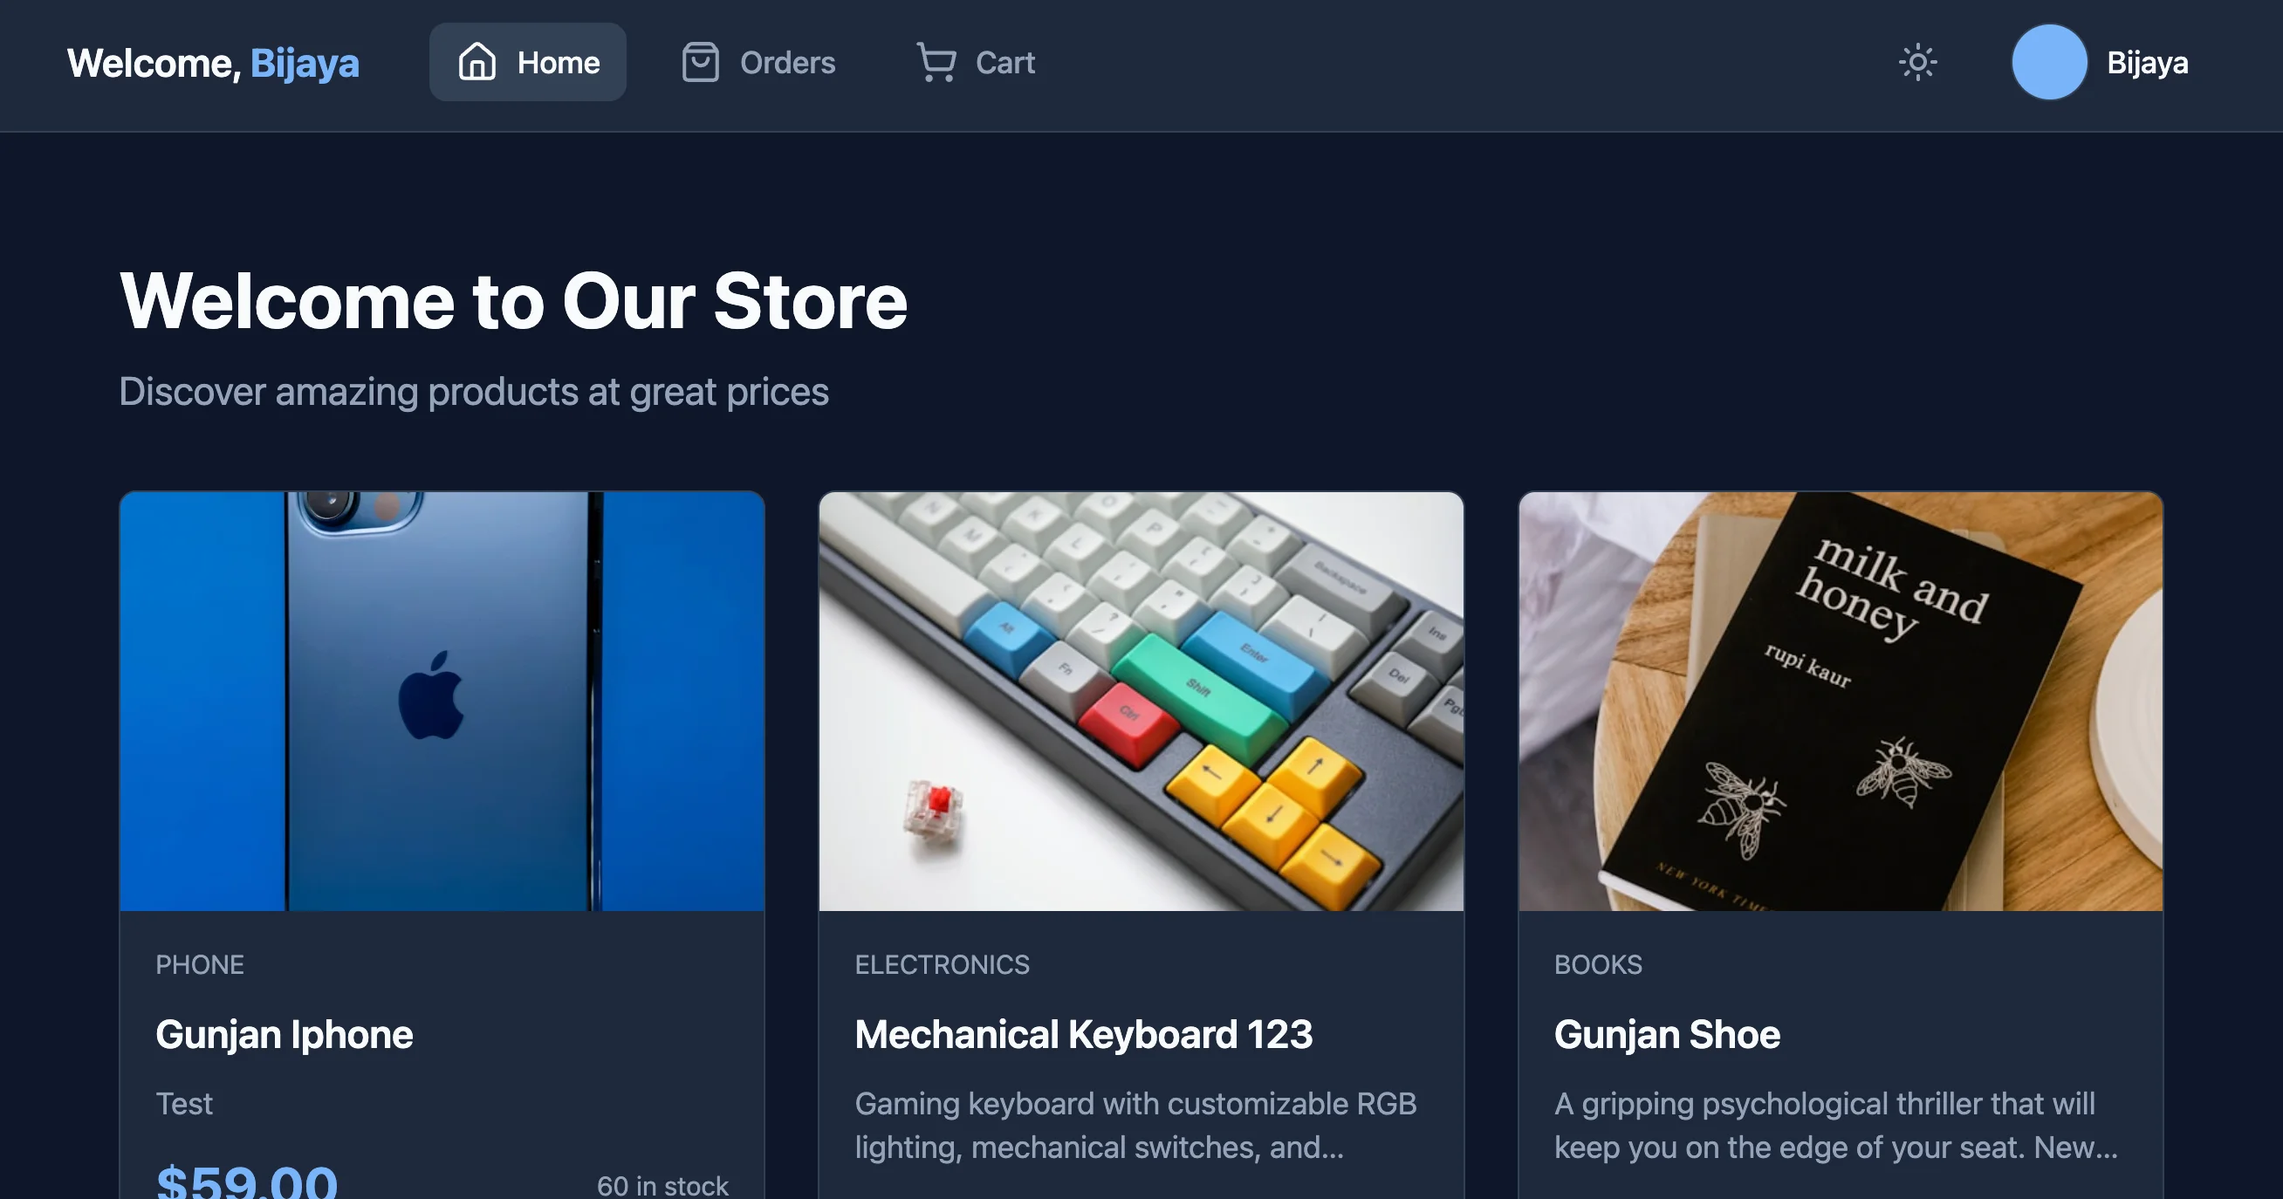
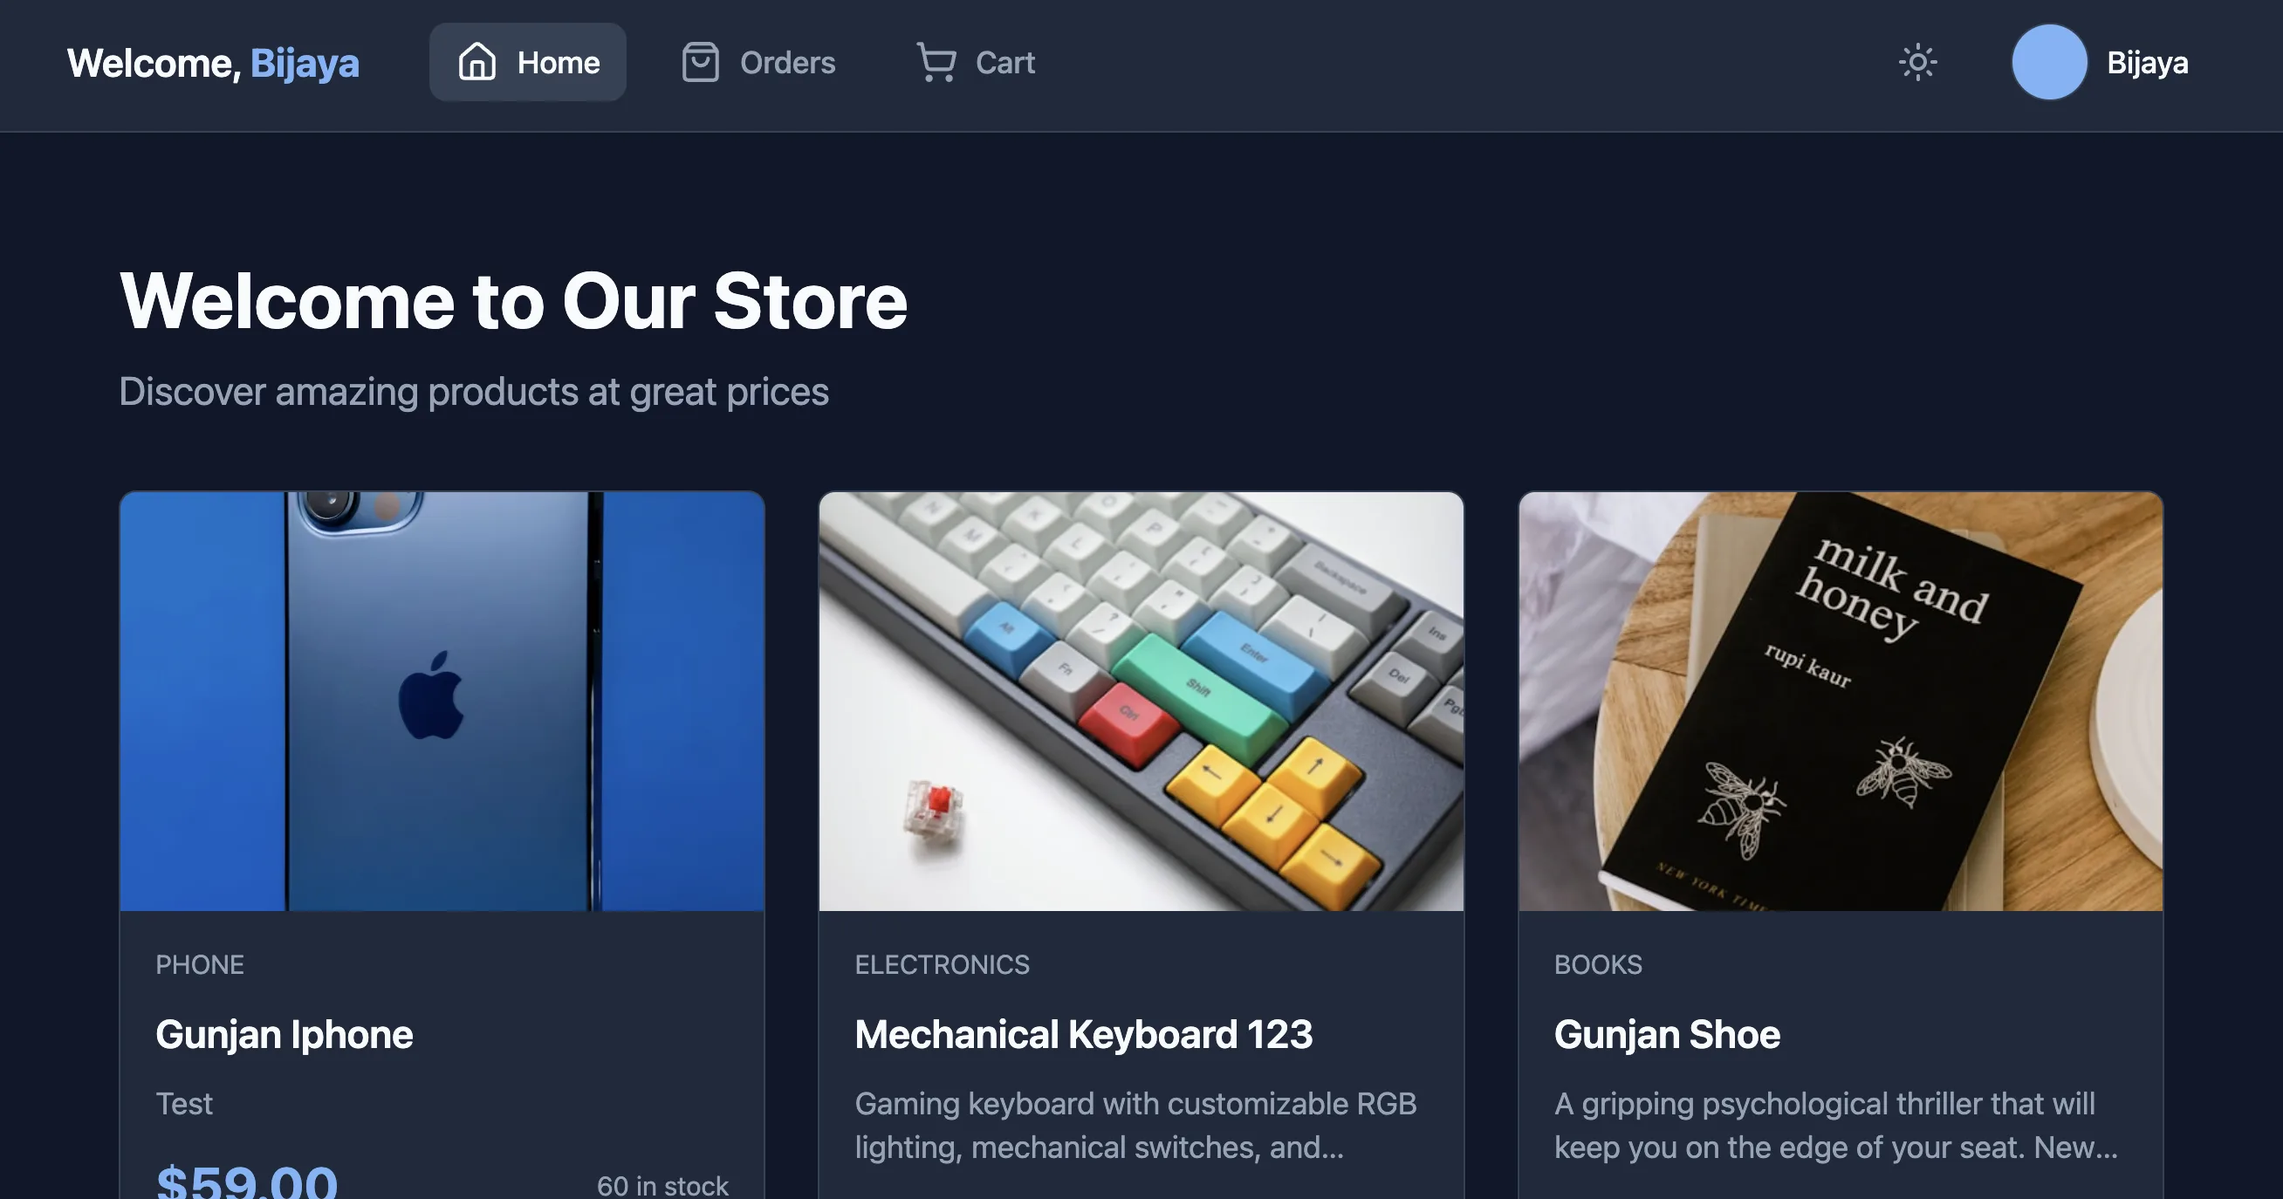
Add AnyToMD and FloatingNotes projects, convert images to webp

Changed region(s): [[0.031, 0.3974, 0.3406, 0.7642], [0.4644, 0.5197, 0.6193, 0.7642]]

diff --git a/projects.js b/projects.js
@@ -6,13 +6,13 @@ const projectsData = [
     "fullDescription": "Ember on Toorak is a full-stack luxury restaurant platform built for an upscale fire-driven steakhouse in Melbourne. The site delivers a cinematic brand experience with scroll-driven animations, a dynamic menu system, real-time reservations, and an AI-powered chat concierge — all backed by a role-protected admin dashboard.\n\nEvery design decision balances visual storytelling with operational utility: guests get an immersive, smooth-scrolling experience while staff manage menus, bookings, and job listings from a single authenticated interface.\n\nThe architecture follows a modern serverless pattern — Next.js 15 App Router handles SSR and API routes, Prisma ORM connects to Neon Postgres over HTTP, and Clerk secures admin access with JWT-based role enforcement. I implemented transactional email flows via SendGrid, built an AI chat widget using the Vercel AI SDK with OpenAI tool calling, and designed a multi-theme CSS system with runtime switching. Security was treated as a first-class concern: CSP headers, HSTS in production, and strict middleware gating on all admin endpoints.",
     "techStack": ["Next.js 15", "React 19", "TypeScript", "Tailwind CSS v4", "Neon Postgres", "Prisma ORM", "Clerk", "Framer Motion", "Lenis", "Vercel AI SDK", "OpenAI API", "SendGrid", "React Email", "Zod", "Zustand"],
     "images": [
-      "./images/emberontoorak/home_main_theme.jpeg",
-      "./images/emberontoorak/menu_green.jpeg",
-      "./images/emberontoorak/booking_pink.jpeg",
-      "./images/emberontoorak/chat_brown.jpeg",
-      "./images/emberontoorak/reservation_brown.jpeg",
-      "./images/emberontoorak/reservation_light.jpeg",
-      "./images/emberontoorak/light.jpeg"
+      "./images/emberontoorak/home_main_theme.webp",
+      "./images/emberontoorak/menu_green.webp",
+      "./images/emberontoorak/booking_pink.webp",
+      "./images/emberontoorak/chat_brown.webp",
+      "./images/emberontoorak/reservation_brown.webp",
+      "./images/emberontoorak/reservation_light.webp",
+      "./images/emberontoorak/light.webp"
     ],
     "projectUrl": "https://emberontoorak.vercel.app/",
     "githubUrl": null
@@ -24,15 +24,45 @@ const projectsData = [
     "fullDescription": "Hiday brings a neo-brutalist design edge to personal productivity — thick borders, sharp shadows, and bold violet-on-amber theming in both light and dark modes. One-tap tracking, advanced analytics (pie charts, bar charts, trend lines), flexible tagging, and goal streaks across iOS, Android, and web. Built for people who want their tools to work hard and look good doing it.",
     "techStack": ["Next.js 16", "React 19", "Tailwind CSS v4", "Supabase", "Zustand", "React Query", "shadcn/ui", "Radix UI", "Lucide"],
     "images": [
-      "./images/hiday/home.jpg",
-      "./images/hiday/tasks.jpg",
-      "./images/hiday/task.jpg",
-      "./images/hiday/session.jpg",
-      "./images/hiday/timeline.jpg",
-      "./images/hiday/settings.jpg",
-      "./images/hiday/auth.jpg"
+      "./images/hiday/home.webp",
+      "./images/hiday/tasks.webp",
+      "./images/hiday/task.webp",
+      "./images/hiday/session.webp",
+      "./images/hiday/timeline.webp",
+      "./images/hiday/settings.webp",
+      "./images/hiday/auth.webp"
     ],
     "projectUrl": "https://hiday-one.vercel.app/",
+    "githubUrl": null
+  },
+  {
+    "id": "anytomd",
+    "title": "AnyToMD",
+    "shortDescription": "A local-first workspace that turns PDFs, DOCX, and handwriting into clean Markdown — then refines, translates, and renders the result, all on your own machine against your own API keys.",
+    "fullDescription": "AnyToMD is a local-first workspace that turns documents into Markdown — and then does something useful with the result. Everything runs on your own machine against your own API keys; files never leave the box unless you point a step at a hosted model yourself.\n\nConvert. Drop in a PDF or DOCX and get clean Markdown back. PDFs go through a confidence ladder — direct text extraction first, falling back to OCR when a page turns out to be scanned or image-only — while DOCX is converted structurally, tables included. Converted output streams into the page as it is produced, and can be refined afterwards with an AI pass.\n\nRead handwriting. Photograph a handwritten page and have a vision model transcribe it, then correct the transcription against your own reference samples so the model learns the quirks of one particular hand.\n\nWork in Nepali. A dedicated studio for Devanagari source material: extract entities, draft and revise long-form stories through a multi-stage pipeline, keep prompts and evaluations under version control, and render finished pieces into narrated video runs.\n\nGenerate media. Text-to-video and text-to-image lanes are backed by a curated catalogue of hosted models, each with its capabilities and real measured per-generation cost recorded up front, so you can see what a job will cost before you run it. Completed jobs are kept in a browsable history with their prompts, settings, and actual spend.\n\nKeep a library. Everything produced lands in one searchable place, tagged and re-openable, rather than scattered across download folders.\n\nThree pieces run side by side: a Next.js web application, which is the whole user interface and the API surface; a Python conversion service, which handles PDF text extraction and OCR; and a set of shared TypeScript packages for the AI provider plumbing and DOCX handling.\n\nModel choices are not baked in. Each task — transcription, description, revision — is a named role, and any role can be re-pointed at a different local or hosted model from the interface, without a restart. Local models are preferred where they are good enough; hosted ones are there for the jobs that need them.",
+    "techStack": ["Next.js", "TypeScript", "Python", "Ollama", "OpenRouter", "OCR"],
+    "images": [
+      "./images/anytomd/anytomd1.webp",
+      "./images/anytomd/anytomd2.webp",
+      "./images/anytomd/anytomd3.webp",
+      "./images/anytomd/anytomd4.webp"
+    ],
+    "projectUrl": null,
+    "githubUrl": null
+  },
+  {
+    "id": "floating-notes",
+    "title": "FloatingNotes",
+    "shortDescription": "An always-on-top macOS panel holding Markdown notes, todos, a per-note focus timer, and one-click Claude CLI agent runs — stored as ordinary files you own, with no database or account.",
+    "fullDescription": "FloatingNotes is a desktop app (Electron + React) that lives as a compact panel floating above whatever I'm working in — an editor, a browser, a fullscreen video call. It is four tools that happen to share one window, because in practice they're the same activity: plain Markdown notes grouped into color-coded projects; todos, where any note flips into a structured checklist and back losing nothing; per-note focus tracking, so time is attributed to the thing it was spent on; and command presets — saved Claude CLI prompts that run against a project directory.\n\nEverything is stored as ordinary files in ~/Documents/FloatingNotes — one .md per note, one folder per project. No database, no account, no sync service. If the app disappeared tomorrow, the notes are still readable in any text editor.\n\nEvery tool I tried solved a quarter of the problem and forced a context switch for the rest. The window itself was the first problem: notes apps live in the dock, behind whatever I'm actually doing, and the act of switching to them is enough friction that the thought is gone by the time I get there. So the window floats at screen-saver level — above fullscreen apps, visible on all Spaces — and collapses to a 72px draggable icon when I want it out of the way but not gone. Minimize and restore keep the same corner anchored, so the window never wanders across the screen over a day of use.\n\nNotes and tasks are the same object. In every other tool they're separate apps with separate inboxes. Here a note becomes a todo list by toggling a mode: the app inserts a sentinel comment and rewrites the bullets as GFM task lines. Toggle it back and you get prose again. Checked state lives in the Markdown itself, so there's no second source of truth to drift out of sync — and the file is still a normal file the whole time.\n\nTime needs to attach to work, not to a separate timer app. A pomodoro that doesn't know what you were doing produces a number you can't act on. Here the timer starts on a note, banks its minutes against that note, survives an app restart mid-session, and rolls up into daily and 30-day charts. Duration is displayed in pomodoros rather than raw minutes — a unit I can actually plan a day in.\n\nAgents should run where the work is described. I write the prompt in a note, next to the context that produced it. Command presets close that last gap: a saved prompt, a model, and a working directory, launched with one click and streaming results back into the same panel — plus the 5-hour and 7-day usage windows on a bar at the bottom, so I know what's left before starting something long.\n\nOn the notes side: one folder per project and one .md per note in a Finder-visible root you can relocate, with line 1 of the file as the title — no frontmatter, no metadata files to corrupt. Autosave fires half a second after you stop typing and on blur. There's Markdown preview, rename in place, drag-to-reorder, moving a note between projects, and a done state that dims and collapses completed notes under a divider. Connectors link notes to each other across projects, and a filesystem watcher pushes external edits into the app live, so editing a note in another editor just works.\n\nThe focus timer offers 25/45/60/90m presets with a configurable global pomodoro unit, pause and resume with the in-flight session persisted, an overrun bell every 15 minutes past target, and 12 ambience tracks with sequential or random rotation. Per-note totals and individual run records are editable and deletable — a timer left running overnight shouldn't poison the data.\n\nCommand presets run in two modes. Terminal mode opens a real Terminal.app window with readable output and your normal global Claude config, for runs you want to watch. In-app headless mode spawns claude with stream-json output, parses the NDJSON live into the panel, and settles with the final answer plus session id, duration, and cost — cancellable mid-run, resumable afterwards in either mode. One safety detail worth naming: neither mode ever interpolates user text into a shell line. The Terminal path writes the prompt, model, cwd, and description to temp files and generates a script that reads them back, so no metacharacter is ever interpreted; the headless path passes an argv array with shell disabled.\n\nThe architecture is two processes joined by exactly one seam. The main process handles the filesystem, projects, settings, Claude CLI spawning and stream parsing, AppleScript automation, and window management; preload declares the entire contract as a documented contextBridge surface; a single Zustand store holds all app state; pure dependency-free logic lives in its own directory; and Zod schemas validate everything crossing the IPC boundary.\n\nTwo decisions carry most of the design. Files are the source of truth, not app state — notes are Markdown, todo checked-state is the checkbox in the line, and order and completion live in sidecar JSON next to the notes, so nothing needs migrating because there's no schema to migrate. And every IPC response is parsed with Zod before it reaches state, with field-level catches rather than object-level ones — so one malformed value degrades to its default instead of collapsing the whole object. That distinction is load-bearing: an object-level catch on the settings schema would have silently wiped every saved preset and API key on a single bad field.\n\nAn Electron app is two processes, and screenshotting the real window needs a screen-recording permission the build process doesn't have — so verification splits along the same seam as the architecture. Renderer changes run in a dev harness: the real store, real components, and real CSS in a plain browser tab against a stubbed API, driven by Playwright reading the DOM and computed styles, which is how a dark-theme contrast bug got caught that a screenshot never would have. Main-process changes are verified in the actual Electron app, because the harness stub is the thing under test there. Pure logic has plain node tests with no DOM at all.\n\nv0.1.0, macOS-only, MIT-licensed, built for one user. No backend, no database, no telemetry.",
+    "techStack": ["Electron 43", "React 18", "Vite 6", "Zustand 5", "Zod 4", "dnd-kit", "Playwright", "Claude Code CLI", "Firecrawl", "OpenRouter", "AppleScript", "electron-builder"],
+    "images": [
+      "./images/floating_notes/fn1.webp",
+      "./images/floating_notes/fn2.webp",
+      "./images/floating_notes/fn3.webp",
+      "./images/floating_notes/fn4.webp"
+    ],
+    "projectUrl": null,
     "githubUrl": null
   },
   {
@@ -55,9 +85,9 @@ const projectsData = [
     "fullDescription": "A fun little memory card game built with React and TailwindCSS. Players test their memory by matching pairs of fruit-themed cards.\n\nFeatures include score tracking for moves and matches, smooth card flip animations with a win celebration, responsive desktop and mobile design, and auto-shuffle for fresh game layouts on every new round.",
     "techStack": ["React", "Tailwind CSS", "Vite"],
     "images": [
-      "./images/memory_game/game.jpg",
-      "./images/memory_game/game1.jpg",
-      "./images/memory_game/game2.jpg"
+      "./images/memory_game/game.webp",
+      "./images/memory_game/game1.webp",
+      "./images/memory_game/game2.webp"
     ],
     "projectUrl": "https://memory-game-tau-virid.vercel.app/",
     "githubUrl": "https://github.com/bjadhs/memory_game"

diff --git a/style.css b/style.css
@@ -760,6 +760,9 @@ body.dark-theme .skill-category-card:hover {
   transition: transform 0.3s ease, box-shadow 0.3s ease;
   opacity: 0;
   transform: translateY(30px);
+  display: flex;
+  flex-direction: column;
+  height: 100%;
 }
 
 .project-card:hover {
@@ -768,6 +771,7 @@ body.dark-theme .skill-category-card:hover {
 
 .project-image {
   height: 200px;
+  flex-shrink: 0;
   background-color: #ddd;
   overflow: hidden;
   position: relative;
@@ -797,15 +801,26 @@ body.dark-theme .skill-category-card:hover {
 
 .project-content {
   padding: 1.5rem;
+  display: flex;
+  flex-direction: column;
+  flex: 1;
 }
 
 .project-content h3 {
   margin-bottom: 0.5rem;
 }
 
+/* Clamp to 3 lines so every card's description block is the same height;
+   longer text is cut with an ellipsis. */
 .project-content p {
   margin-bottom: 1rem;
   color: #666;
+  display: -webkit-box;
+  -webkit-box-orient: vertical;
+  -webkit-line-clamp: 3;
+  line-clamp: 3;
+  overflow: hidden;
+  min-height: calc(3 * 1.6em);
 }
 
 .project-tags {
@@ -813,16 +828,21 @@ body.dark-theme .skill-category-card:hover {
   flex-wrap: wrap;
   gap: 0.5rem;
   margin-bottom: 1rem;
+  min-height: 1.5rem;
+}
+
+.tag-more {
+  opacity: 0.7;
 }
 
 .tag {
   background-color: transparent;
-  border: 1px solid rgba(255, 255, 255, 0.35);
-  padding: 0.1rem 0.45rem;
+  border: 1px solid var(--border-color);
+  padding: 0.15rem 0.55rem;
   border-radius: 50px;
-  font-size: 0.5rem;
+  font-size: 0.68rem;
   font-weight: 500;
-  color: #ffffff;
+  color: var(--text);
 }
 
 /* Contact Section */
@@ -1494,6 +1514,7 @@ input:checked + .slider:before {
   gap: 0.75rem;
   flex-wrap: wrap;
   align-items: center;
+  margin-top: auto;
 }
 
 .card-actions .btn {
@@ -1555,13 +1576,17 @@ input:checked + .slider:before {
   box-shadow: 0 12px 40px rgba(0, 0, 0, 0.15);
   margin-bottom: 2rem;
   border: 1px solid var(--border-color);
+  display: flex;
+  justify-content: center;
+  background-color: var(--card-bg);
 }
 
+/* Never upscale — narrow/portrait screenshots render at natural size and
+   centre themselves; wide ones scale down to fit. */
 .detail-hero-image img {
-  width: 100%;
+  max-width: 100%;
   height: auto;
   display: block;
-  object-fit: cover;
 }
 
 .detail-content h1 {
@@ -1615,7 +1640,8 @@ body.dark-theme .detail-tags .tag {
 .detail-gallery img {
   width: 100%;
   height: 200px;
-  object-fit: cover;
+  object-fit: contain;
+  background-color: var(--card-bg);
   border-radius: 12px;
   border: 1px solid var(--border-color);
   transition: transform 0.3s ease, box-shadow 0.3s ease;

diff --git a/script.js b/script.js
@@ -391,9 +391,13 @@ const renderProjects = () => {
         .map((src, i) => `<img src="${src}" alt="${project.title}" class="${i === 0 ? 'active' : ''}" loading="lazy">`)
         .join('');
 
-      const tagsHtml = project.techStack
+      // Cap the card's tags to one row — the rest are on the detail page.
+      const MAX_TAGS = 4;
+      const shownTags = project.techStack.slice(0, MAX_TAGS);
+      const hiddenCount = project.techStack.length - shownTags.length;
+      const tagsHtml = shownTags
         .map(tag => `<span class="tag">${tag}</span>`)
-        .join('');
+        .join('') + (hiddenCount > 0 ? `<span class="tag tag-more">+${hiddenCount}</span>` : '');
 
       const viewBtn = project.projectUrl
         ? `<a href="${project.projectUrl}" target="_blank" rel="noopener noreferrer" class="btn"><i class="fas fa-external-link-alt"></i> View Project</a>`

diff --git a/index.html b/index.html
@@ -92,7 +92,7 @@
         </div>
         <div class="hero-image">
           <div class="hero-image-wrapper">
-            <img src="./images/bijaya.png" alt="Bijaya Adhikari">
+            <img src="./images/bijaya.webp" alt="Bijaya Adhikari">
           </div>
         </div>
       </div>
